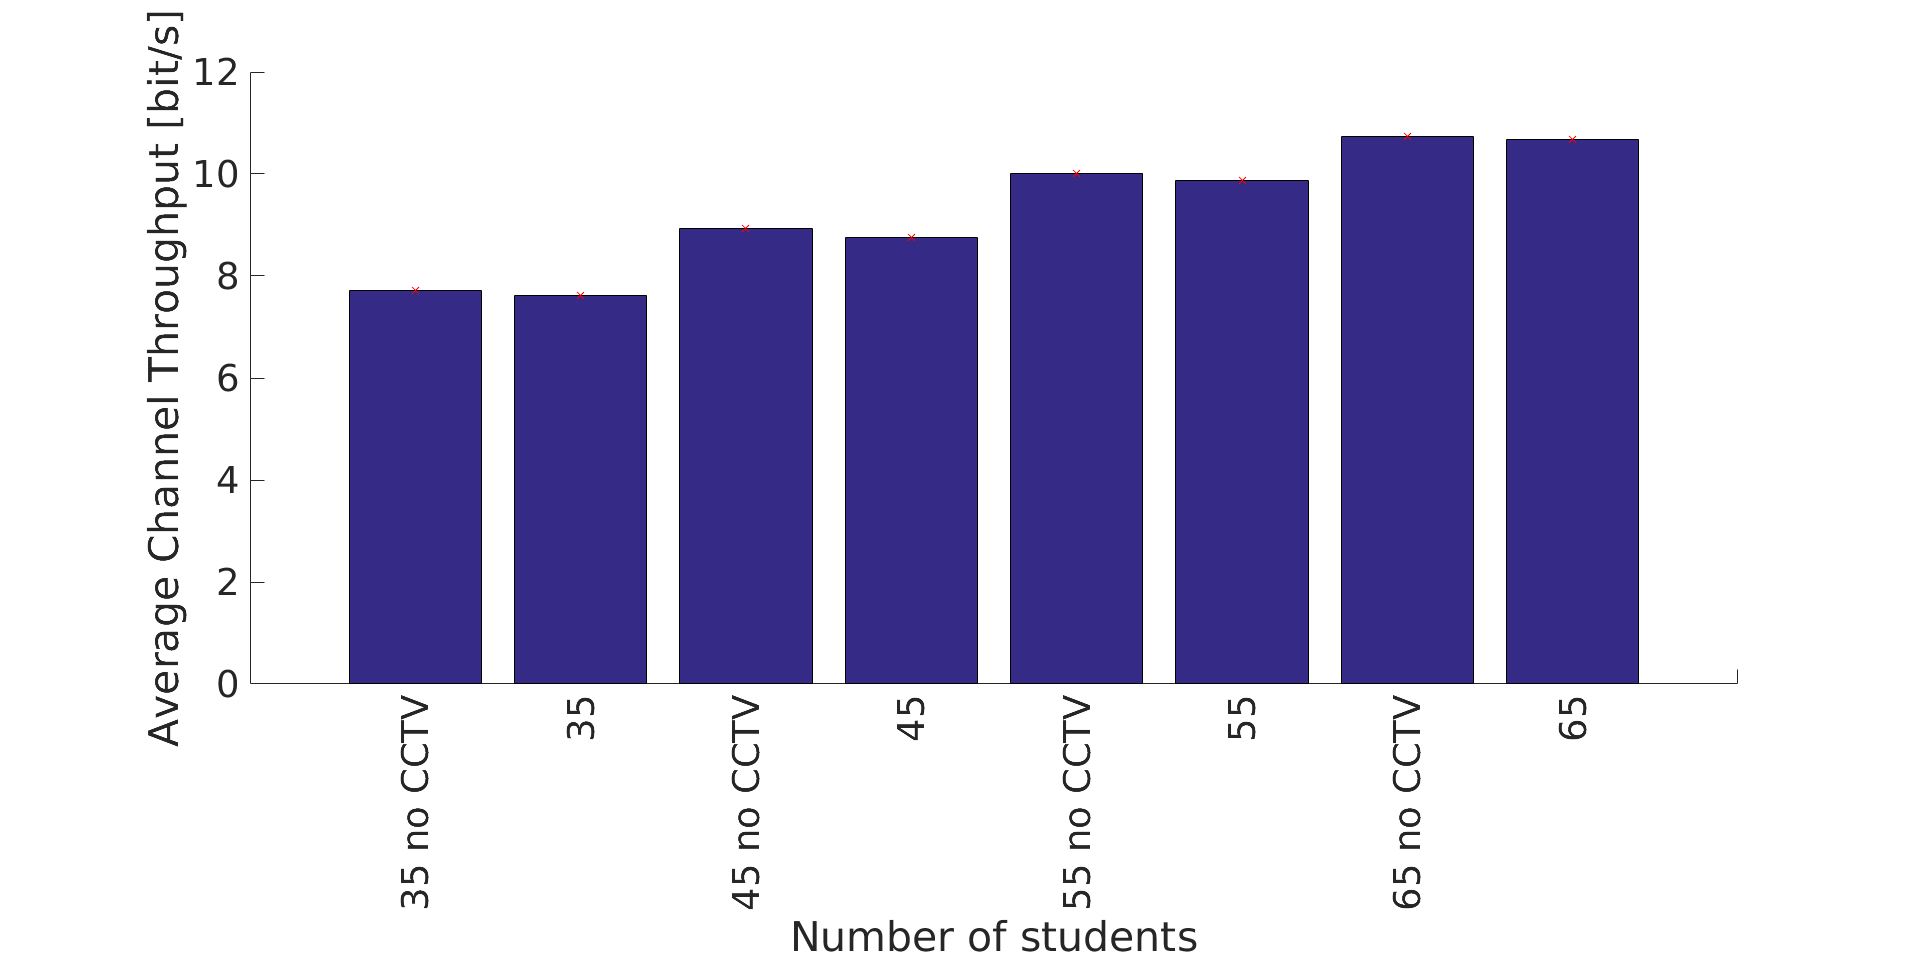
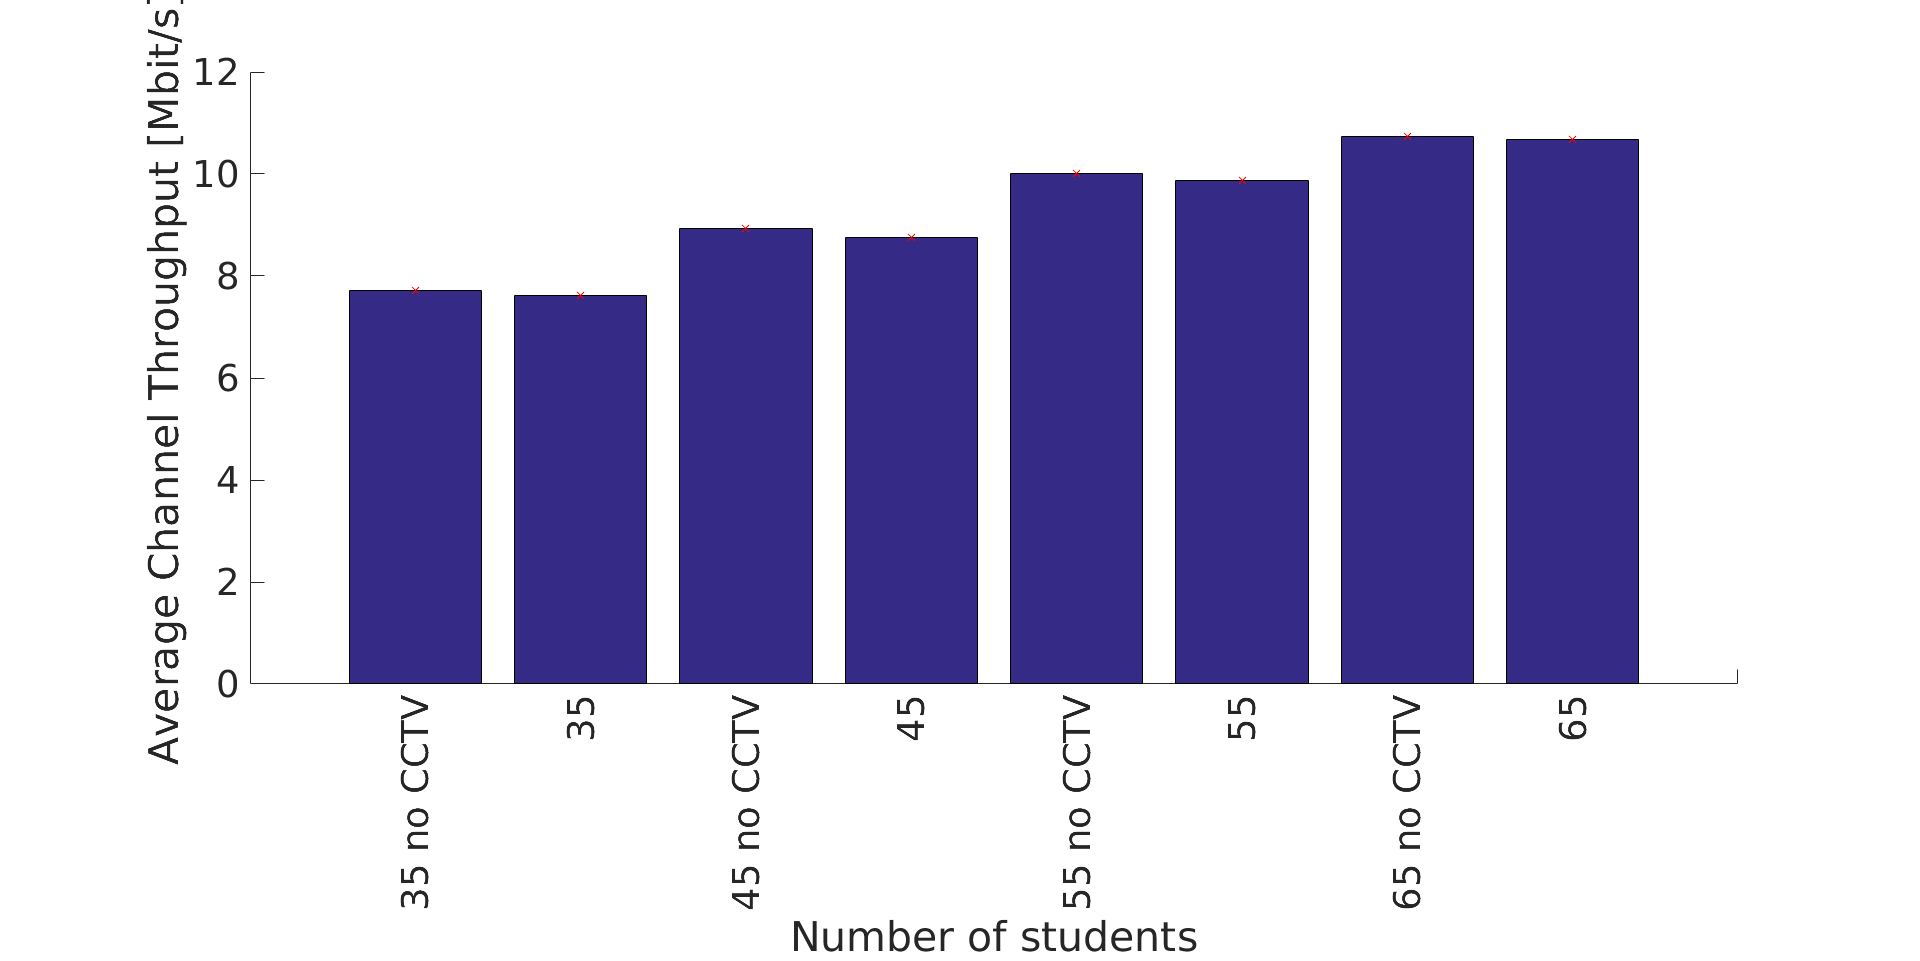
small report change

Changed region(s): [[0.0625, 0.0, 0.0938, 0.7804]]

diff --git a/exam_project/latex/report.tex b/exam_project/latex/report.tex
@@ -187,7 +187,7 @@
 		\section{Supported number of students $n$}
 		As section \ref{sec:errorrate} showed us, more than $n=50$ students can certainly not be supported, even if the camera is turned off, if we want to maintain a lecture livestream's error rate of $<5\%$. If the stream becomes noticeably erroneous, then we advise the administrator to turn off the CCTV camera. If the number of students goes far beyond $n\geq 45$, turning off the camera results in the system being able to support an additional, small number of students. Staying below this threshold, running the CCTV camera should not be a problem. Approaching $n=50$ students, given a turned off CCTV camera, the livestream will start going beyond the critical $5\%$ error rate and start having a notable packet loss.	
 		
-		\section{Influences on the generated traffic}
+		\section{Radio link traffic}
 		Many inputs to the backup radio link are known to us. Only the number of students is variable here. This section aims at breaking down what contributes to the backup radio link's traffic.
 		
 			\subsection{CCTV camera's influence on the generated traffic}\label{sec:cctvinfluence}
@@ -216,5 +216,10 @@
 			The constant FTP upload that takes place is more difficult to capture. FTP is an application layer protocol that operates on TCP. As such it has no knowledge of the network's current state. It passes on as much data as it wants to send, leaving the job of breaking down this data into chunks that \emph{can} actually be sent to the TCP protocol. 
 			
 			One can assume that the FTP traffic will swallow up all available bandwidth on the channel.
+			
+			\subsection{Radio link throughput}
+			Putting the pieces together we obtain the backup channel's average throughput:
+			
+			
 
 \end{document}

diff --git a/exam_project/Results_Analysis/3rd_analysis/plot_radiochannel_throughput.m b/exam_project/Results_Analysis/3rd_analysis/plot_radiochannel_throughput.m
@@ -16,7 +16,7 @@ function plot_radiochannel_throughput()
     bar(meansVec)
     %errorbar(1:1:length(filenames), meansVec, CIsVec(1:end, 1), CIsVec(1:end, 2), 'rx')    
     errorbar(1:1:length(filenames), meansVec, CIsVec(1:end, 2) - CIsVec(1:end, 1), 'rx')    
-    ylabel('Average Channel Throughput [bit/s]');
+    ylabel('Average Channel Throughput [Mbit/s]');
     xlabel('Number of students');
     set(gca,'XTickLabel',{'', '35 no CCTV', '35', '45 no CCTV', '45', '55 no CCTV', '55', '65 no CCTV', '65'})
     set(gca,'XTickLabelRotation', 90)
